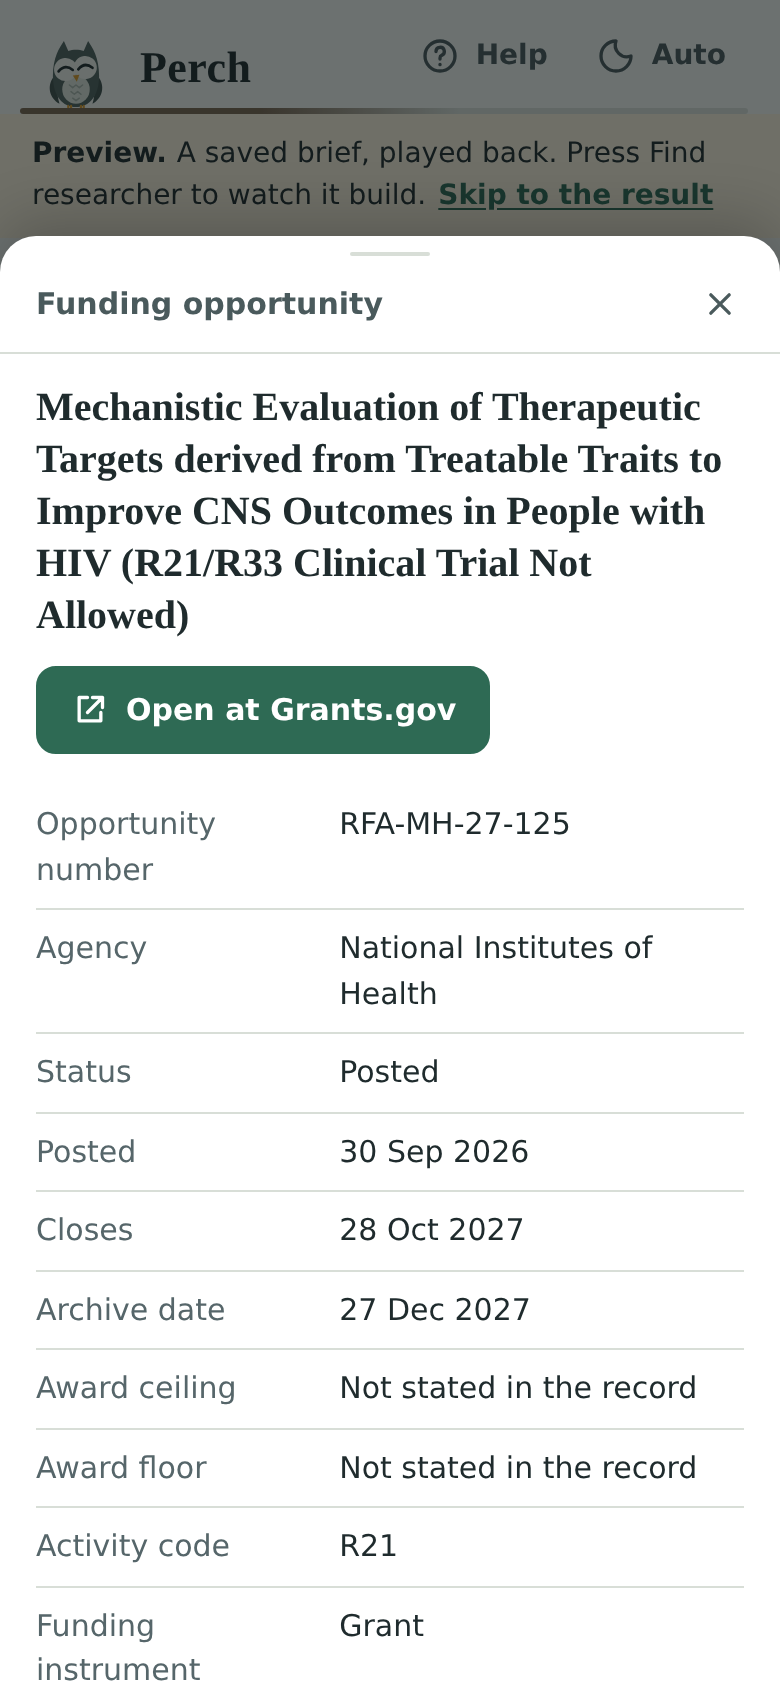
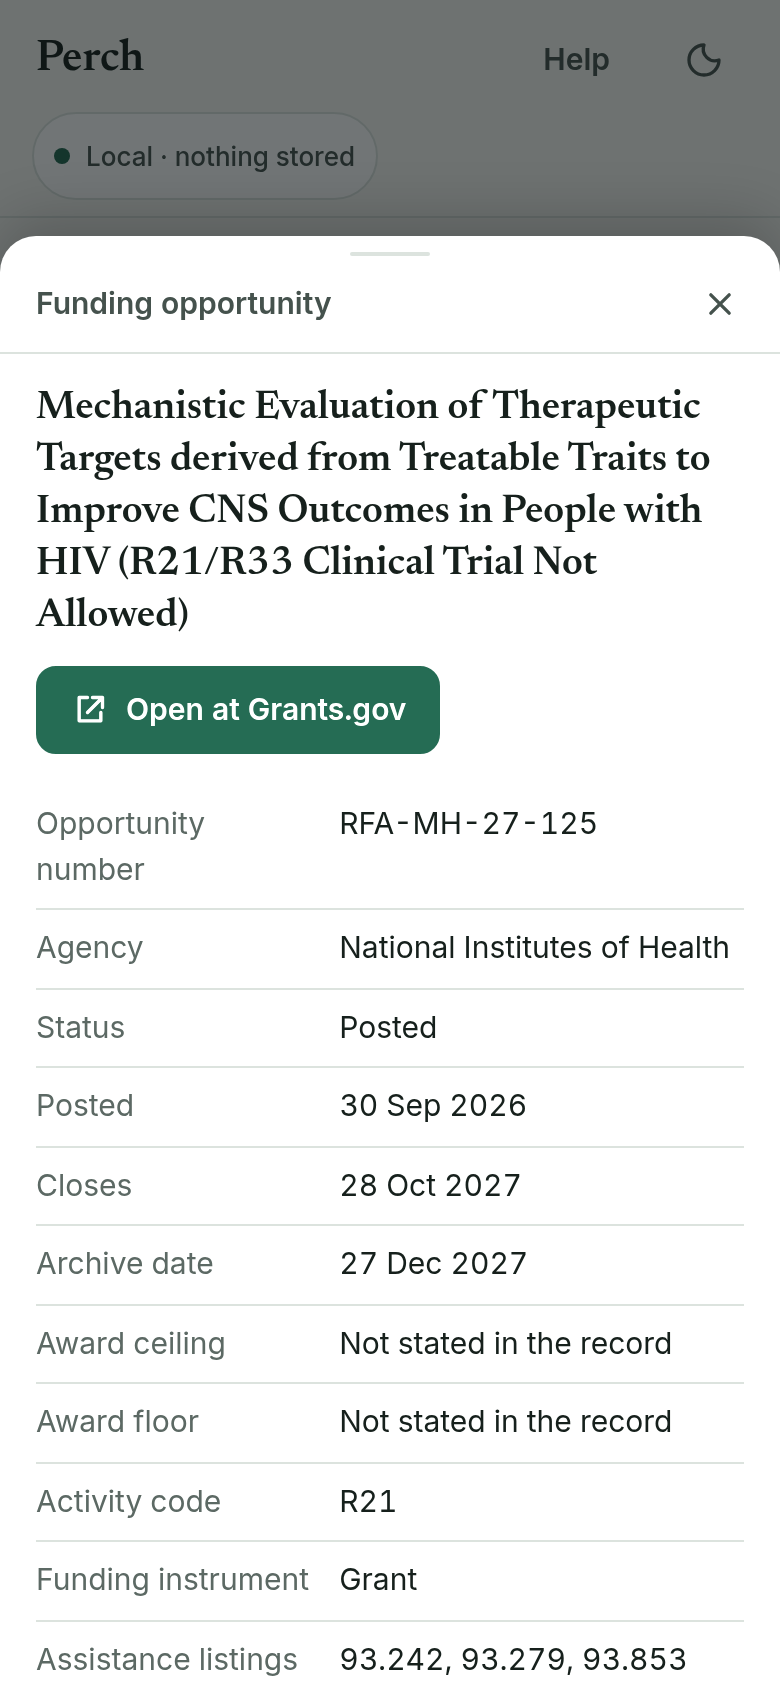
S26: screenshots retaken from the redesigned replay preview

diff --git a/scripts/screenshots.py b/scripts/screenshots.py
@@ -12,7 +12,6 @@ from __future__ import annotations
 import argparse
 import asyncio
 import glob
-import json
 import os
 import sys
 from pathlib import Path
@@ -36,20 +35,23 @@ async def walk(page: Page, url: str, out: Path, tag: str, errors: list[str]) -> 
 
     page.on("pageerror", lambda e: errors.append(f"{tag}: {e}"))
     await page.goto(url)
-    await page.wait_for_selector(".hero")
+    await page.wait_for_selector(".landing")
     await snap("1-find")
-    await page.click("button[type=submit]")
-    await page.wait_for_selector(".candidate")
+    await page.click(".searchbox button[type=submit]")
+    await page.wait_for_selector(".cand")
+    await page.click(".cand .btn.outline")
+    await page.wait_for_selector(".more-panel")
+    await page.wait_for_timeout(500)
     await snap("2-candidate")
-    await page.click(".candidate .btn.primary")
-    await page.wait_for_selector(".progress")
-    await page.wait_for_timeout(2600)
-    await snap("3-building-profile")
-    await page.wait_for_timeout(2600)
-    await page.click("#tab-routes")
-    await page.wait_for_timeout(2600)
+    await page.click("[data-key=build]")
+    await page.wait_for_selector(".pcard")
+    await page.wait_for_timeout(1500)
+    await snap("3-building")
+    await page.wait_for_selector(".leads > li", timeout=30000)
+    await page.wait_for_timeout(2500)
     await snap("4-building-routes")
-    await page.wait_for_selector(".progress.compact", timeout=30000)
+    ready = "() => /Brief ready/.test(document.querySelector('#progress').innerText)"
+    await page.wait_for_function(ready, timeout=60000)
     await page.wait_for_timeout(500)
     await snap("5-routes-done")
     await page.click(".lead .why summary")
@@ -66,22 +68,19 @@ async def walk(page: Page, url: str, out: Path, tag: str, errors: list[str]) -> 
     await page.wait_for_timeout(350)
     await snap("8-evidence-opportunity")
     await page.keyboard.press("Escape")
-    await page.click(".lead .btn.keep")
-    await page.locator(".lead").nth(1).locator("[data-key=dismiss]").click()
     await page.wait_for_timeout(300)
-    kept = await page.locator(".lead.kept").count()
-    if kept != 1 or await page.locator(".dismissed").count() != 1:
-        errors.append(f"{tag}: keep or dismiss did not take effect")
-    if await page.locator(".keep-bar").count() != 1:
-        errors.append(f"{tag}: the Keep bar did not appear")
-    else:
-        async with page.expect_download() as dl:
-            await page.click("[data-key=keep-download]")
-        saved = json.loads(Path(await (await dl.value).path()).read_text("utf-8"))
-        if [x["status"] for x in saved["leads"]] != ["kept"]:
-            errors.append(f"{tag}: the Keep bar download did not hold exactly the kept lead")
-        await snap("9b-keep-bar")
-    wide =await page.evaluate("document.documentElement.scrollWidth - innerWidth")
+    keeps = page.locator(".leads > li:not(.kept) .btn.keep")
+    await keeps.first.click()
+    await page.locator(".leads > li:not(.kept)").first.locator("[data-key=dismiss]").click()
+    await page.wait_for_timeout(400)
+    if await page.locator(".dismissed").count() != 1:
+        errors.append(f"{tag}: dismiss did not take effect")
+    shown = """() => [...document.querySelectorAll('.shortlist li, #keep-float .keep-float')]
+      .some((el) => el.offsetParent !== null)"""
+    if not await page.evaluate(shown):
+        errors.append(f"{tag}: neither the shortlist nor the keep pill shows the kept lead")
+    await snap("9b-keep-bar")
+    wide = await page.evaluate("document.documentElement.scrollWidth - innerWidth")
     if wide > 0:
         errors.append(f"{tag}: page scrolls sideways by {wide}px")
     await snap("9-routes-full", full=True)

diff --git a/docs/screenshots/README.md b/docs/screenshots/README.md
@@ -1,5 +1,5 @@
-# Screenshots (S7, for Checkup 2)
+# Screenshots (S7; retaken in S26 for the S24 redesign)
 
 Taken by `scripts/screenshots.py` from the replay preview (`scripts/build_ui_preview.py`): a saved brief played back, the researcher shown by alias. `phone-*` are 390 px wide at 2x, `wide-*` are 1280 px, `dark-*` are a phone in dark mode.
 
-1. Find. 2. Candidate to confirm. 3. Building, profile tab. 4. Building, routes tab with explanations landing. 5. Routes, finished. 6. Why it fits. 7. Evidence panel, a paper. 8. Evidence panel, an opportunity. 9. Routes, full page, one kept and one dismissed. 10. Profile, full page. 11. Help, full page.
+1. The landing. 2. The person picked, with "Tell Perch more". 3. Building, on Routes, with shimmer cards. 4. Building, with explanations landing. 5. Routes, finished. 6. Why it fits. 7. Evidence, a paper (the rail on a laptop, the sheet on a phone). 8. Evidence, an opportunity. 9b. A kept lead in the shortlist (laptop) or the keep pill (phone). 9. Routes, full page, kept and dismissed leads. 10. Profile, full page. 11. Help, full page.
